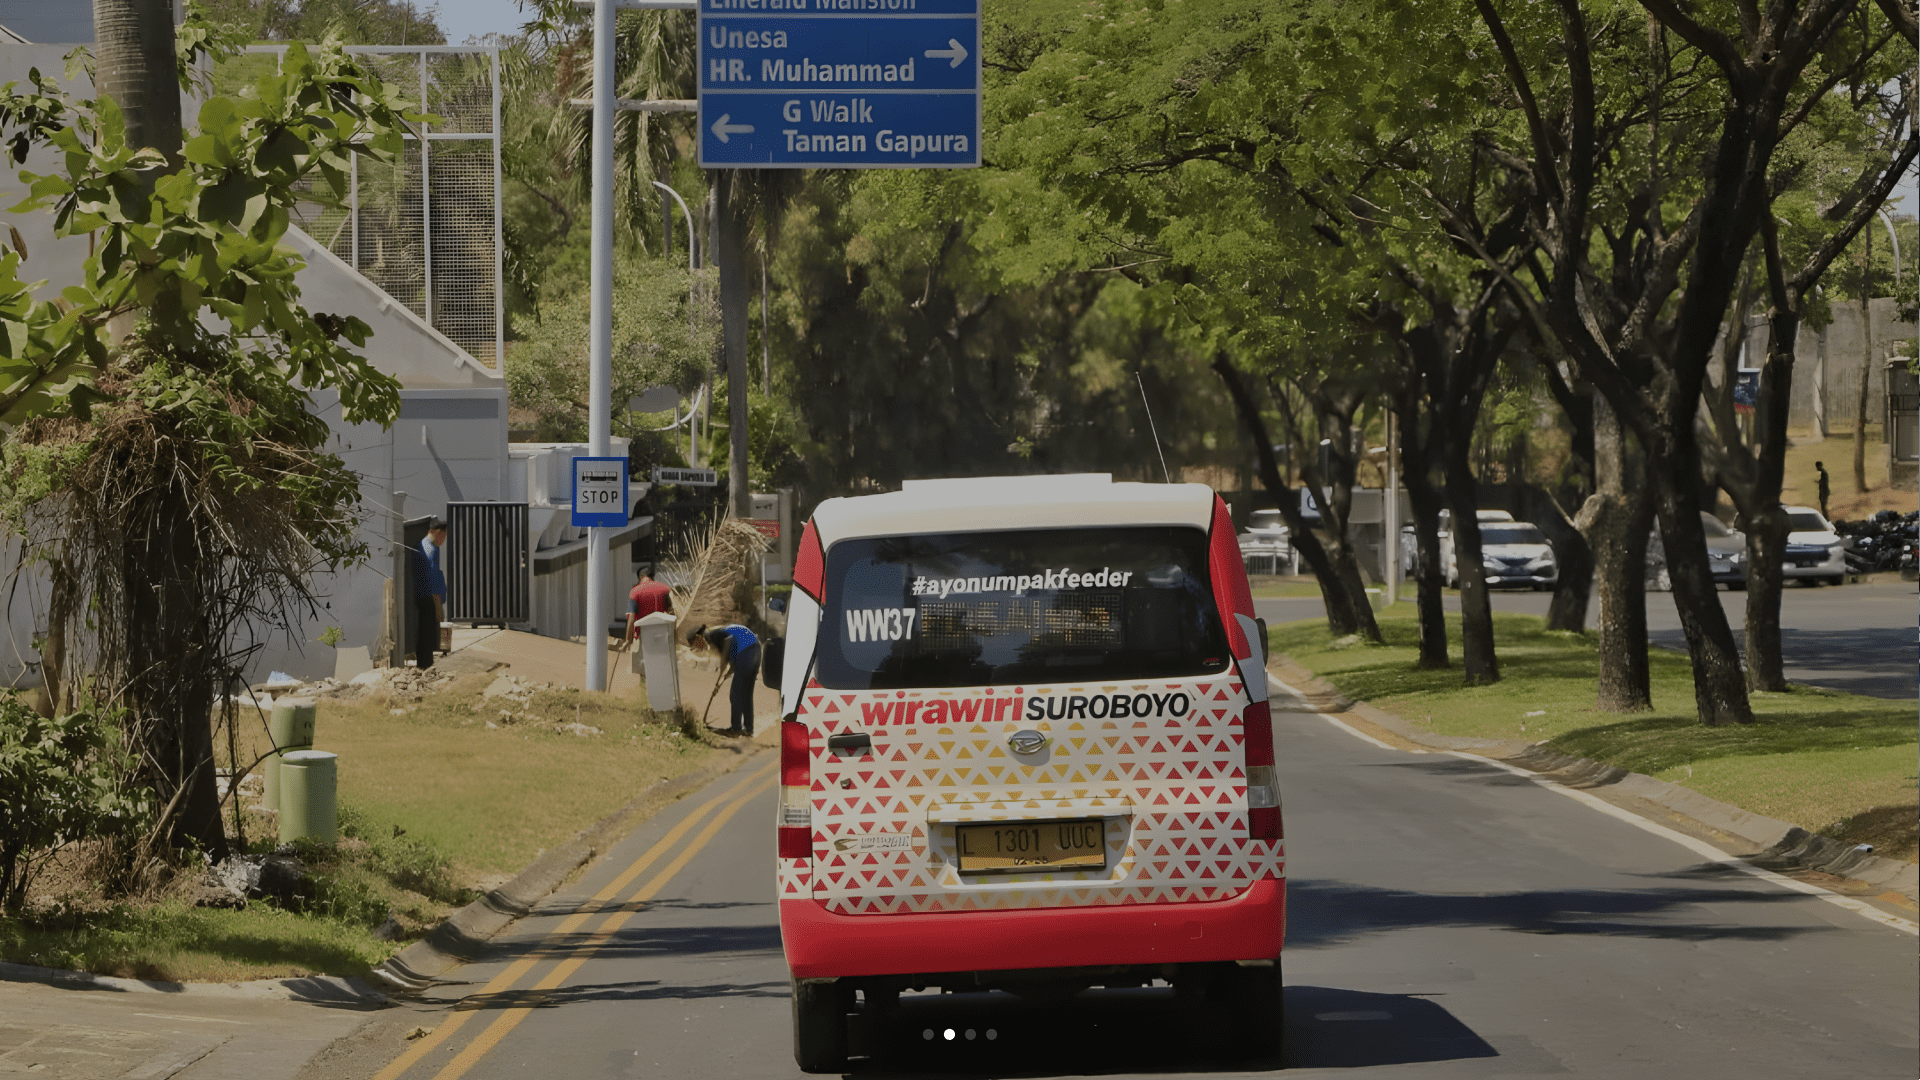
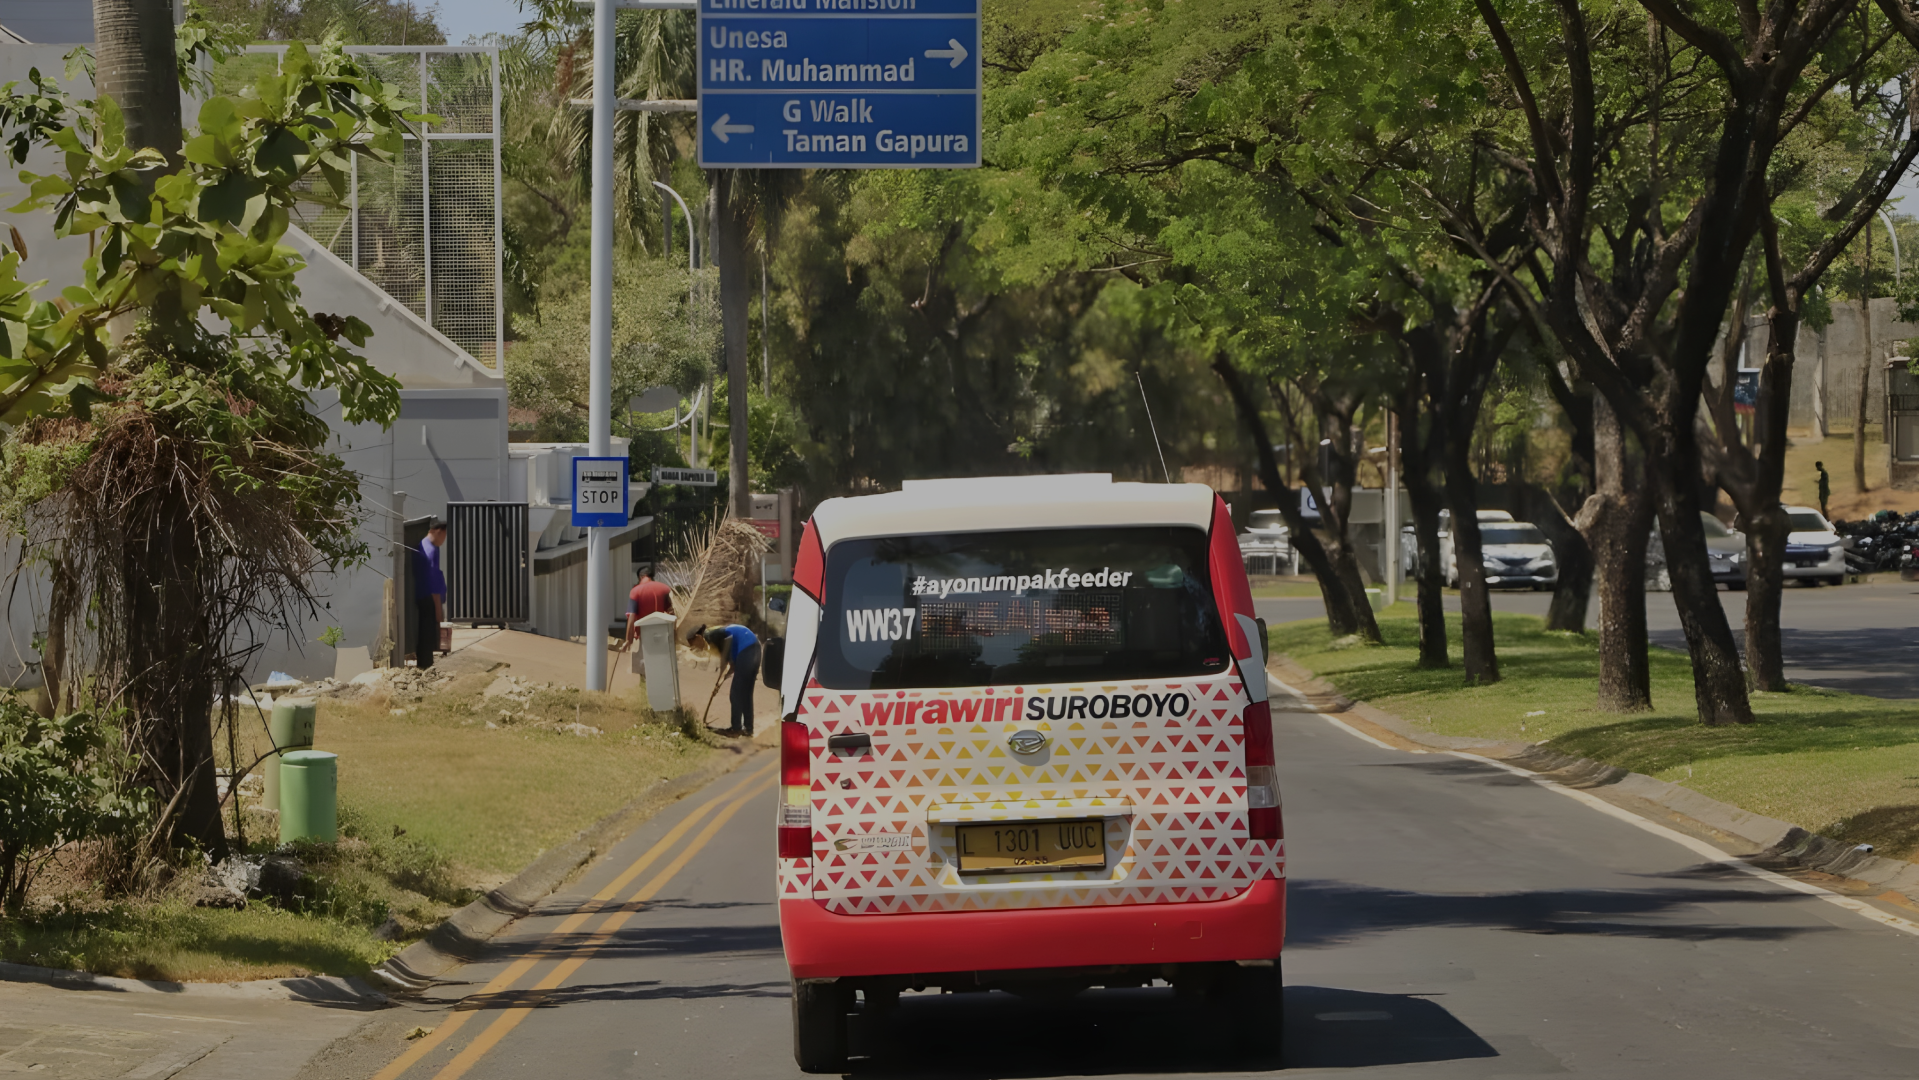
update slider

diff --git a/asset/css/custom.css b/asset/css/custom.css
@@ -482,7 +482,7 @@
 	height: 100%;
 	background-position: center;
 	background-repeat: no-repeat;
-	background-size: 100% 100%;
+	background-size: cover;
 }
 
 .style-owl-banner-slider .owl-dots {
@@ -1311,7 +1311,7 @@
 
 	.style-section-product-overview .px-5 {
 		padding-right: 0 !important;
-		padding-left: 7rem !important;
+		padding-left: 6rem !important;
 	}
 
 	.border-thick {

diff --git a/company-history.html b/company-history.html
@@ -355,7 +355,7 @@
 		<!-- Footer
 		============================================= -->
 		<footer id="footer" class="background-footer dark"
-			style="background-image: url('./asset/images/banner/banner-footer.png');">
+			style="background-image: url('./asset/images/banner/banner-footer.png'); z-index: 10;">
 			<div class="container-fluid container-md">
 
 				<!-- Footer Widgets
